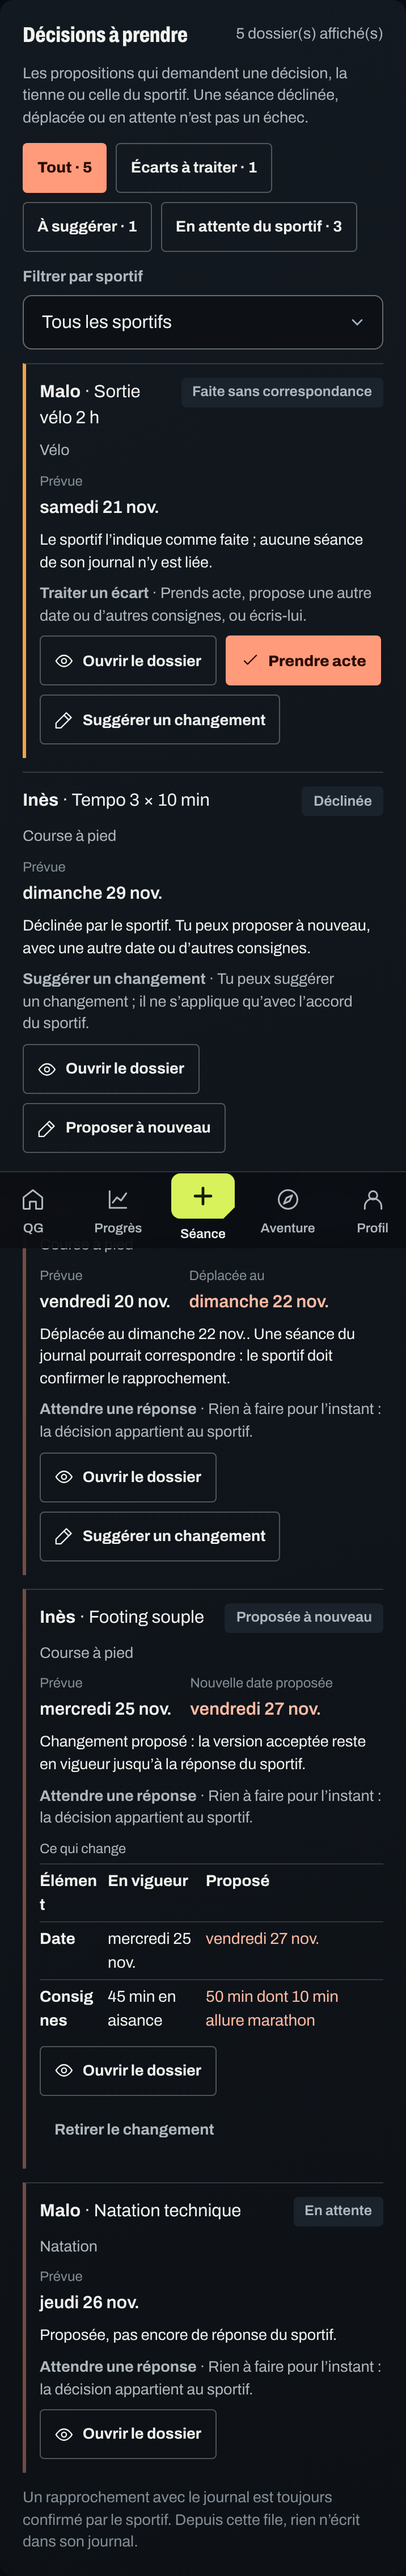
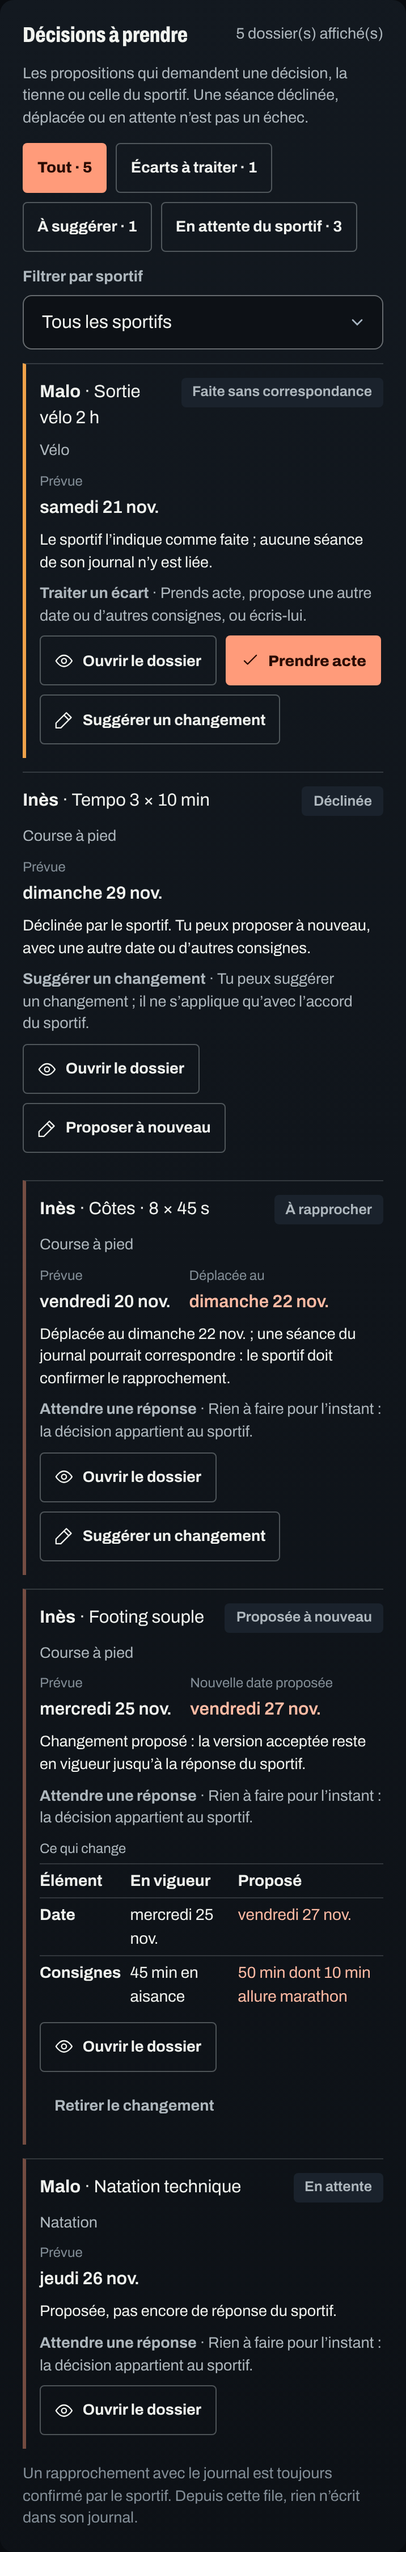
fix(coaching): V1.9.1 audit — no retryable errcode for a business conflict, wording after abbreviated months, docs
- COACH_CONFLICT is raised without errcode 40001 (sql/tests/300_business_conflicts.sql forbids retryable
  business conflicts); bundle v191 regenerated with the re-measured public fingerprint (325/52d4cbd3910b/1367d1178a2d).
- No double full stop after « nov. » in the shared wording; the diff table keeps its headers on one line.
- docs/V191_SEANCE_ASSIGNEE.md (states, rules, measure protocol), screenshots regenerated.

Claude-Session: https://claude.ai/code/session_01NJ928ZdQnnkjhS4RQXu4sH

diff --git a/js/core/coach-followup.js b/js/core/coach-followup.js
@@ -87,12 +87,12 @@
     if (row.state === "linked") {
       if (row.linked && row.linked.in_scope === false) return "Liée à une séance que le partage actuel ne te montre pas (sport ou période hors du partage).";
       const g = between(planned, done);
-      if (g === 0) return `Faite le jour prévu, ${day(done)}.`;
+      if (g === 0) return `Faite le jour prévu (${day(done)}).`;
       if (g === null) return "Liée à une séance du journal.";
       return `Prévue ${day(planned)}, faite ${day(done)} : ${plural(Math.abs(g), "jour", "jours")} ${g > 0 ? "plus tard" : "plus tôt"}.`;
     }
-    if (row.state === "moved") return `Prévue ${day(planned)}, déplacée par le sportif au ${day(moved)}. Pas encore de séance liée.`;
-    if (row.state === "to_match") return `${moved ? `Déplacée au ${day(moved)}. ` : ""}Une séance du journal pourrait correspondre : le sportif doit confirmer le rapprochement.`;
+    if (row.state === "moved") return `Prévue ${day(planned)}, déplacée par le sportif au ${day(moved)} ; pas encore de séance liée.`;
+    if (row.state === "to_match") return `${moved ? `Déplacée au ${day(moved)} ; une` : "Une"} séance du journal pourrait correspondre : le sportif doit confirmer le rapprochement.`;
     if (row.state === "overdue") return `${moved ? `Déplacée au ${day(moved)}` : `Prévue ${day(planned)}`} : la date est passée, aucune séance liée ni déclarée.`;
     if (row.state === "done_unmatched") return row.status === "completed" ? "La séance liée a été retirée du journal : la proposition reste indiquée comme faite, sans séance." : "Le sportif l’indique comme faite ; aucune séance de son journal n’y est liée.";
     return "";
@@ -132,11 +132,11 @@
     switch (row?.state) {
       case "awaiting": text = "Ton coach te propose cette séance. Accepte-la ou décline-la : rien n’est ajouté à ton journal."; break;
       case "reproposed": text = "Ton coach propose un changement. Ta version acceptée reste valable tant que tu n’as pas répondu."; break;
-      case "moved": text = `Tu l’as déplacée au ${day(row.moved_date)}. Ton coach voit les deux dates.`; break;
+      case "moved": text = `Tu l’as déplacée au ${day(row.moved_date)} : ton coach voit les deux dates.`; break;
       case "to_match": text = cands.length === 1 ? "Une séance de ton journal semble correspondre. Confirme si c’est bien elle : rien n’est lié sans toi." : "Plusieurs séances de ton journal pourraient correspondre. Choisis la bonne, ou aucune."; break;
       case "done_unmatched": text = row.status === "completed" ? "La séance liée n’est plus dans ton journal. Relie une autre séance si tu veux." : "Tu l’as indiquée comme faite. Relie la séance de ton journal quand elle y sera."; break;
       case "overdue": text = "La date est passée. Déplace-la, indique-la comme faite ou décline-la : ce n’est pas un échec."; break;
-      case "linked": text = `Reliée à ta séance du ${day(row.done_date)}. Tu peux retirer ce lien ; ton journal ne change pas.`; break;
+      case "linked": text = `Reliée à ta séance du ${day(row.done_date)} : tu peux retirer ce lien, ton journal ne change pas.`; break;
       case "declined": text = "Tu l’as déclinée."; break;
       case "cancelled": text = "Ton coach l’a annulée."; break;
       default: text = "Acceptée et prévue.";

diff --git a/docs/V191_SEANCE_ASSIGNEE.md b/docs/V191_SEANCE_ASSIGNEE.md
@@ -1,0 +1,56 @@
+# V1.9.1 — Une séance assignée
+
+Rendre les propositions du coach réellement suivables : savoir lesquelles demandent une décision, de qui et pourquoi, surtout après un
+changement de date ou de contenu. Sportif Android et coach Web. Les données de séance viennent toujours du journal du sportif.
+Drapeau serveur `screens.coach_followup` (fermé par défaut, vérifié par le serveur). Migration `20261201090000`, paquet `supabase/release-v191`.
+
+## Ce qui est réutilisé
+
+Le lien de partage (`public.coach_links`, sa pause de capacité et sa révocation), les statuts de `public.coach_assignments`
+(`proposed`, `accepted`, `declined`, `completed`, `cancelled`), le lien vers le journal (`session_id`, une proposition par séance,
+index unique), le portail `titan_coach_portal` (inchangé), la liste des propositions et les modèles de séance du coach.
+
+## Les états, calculés par le serveur
+
+| État | Quand | Le coach | Le sportif |
+|---|---|---|---|
+| En attente | proposée, pas encore de réponse | attendre une réponse | accepter ou décliner |
+| Proposée à nouveau | le coach a proposé un changement sur une séance acceptée ou déclinée ; la version en vigueur reste | attendre une réponse ; peut retirer le changement | voir ce qui change, accepter ou garder sa version |
+| Reportée | le sportif a déplacé la séance, rien n’est encore lié | traiter un écart (prendre acte ou suggérer un changement) | redéplacer, revenir au jour prévu |
+| À rapprocher | une séance du journal correspond (même sport, éligible, à 3 jours près de la date en vigueur, liée à aucune autre proposition) | attendre : le coach ne voit pas la séance candidate | confirmer le lien, ou non |
+| Faite sans correspondance | le sportif l’indique comme faite, sans séance liée (ou la séance liée a été supprimée du journal) | traiter un écart | relier une séance quand elle arrive, retirer « faite » |
+| Date passée | date en vigueur passée, rien de lié ni déclaré | traiter un écart | déplacer, indiquer « faite », décliner |
+| Liée | une séance du journal est liée (confirmée par le sportif) | lit la date faite et l’écart avec la date prévue, dans le contrat du lien ; prend acte s’il y a un écart | retirer le lien (le journal ne change pas) |
+| Déclinée | le sportif a décliné | suggérer : proposer à nouveau | — |
+
+La file « Décisions à prendre » du coach ne garde que ce qui demande une action (attendre, traiter un écart, proposer à nouveau),
+filtrable par action et par sportif. Un écart traité (« Prendre acte ») sort de la file et y revient si la situation change.
+
+## Règles
+
+- La version acceptée n’est jamais écrasée (`accepted_version`) ; un changement attend à côté (`pending_change`) et ne s’applique qu’avec
+  l’accord du sportif ; l’ancienne version reste dans l’historique. Le dossier montre l’original accepté, la correction et l’activité liée.
+- Un rapprochement n’est qu’une suggestion : il devient un lien seulement quand le sportif le confirme, par le même `session_id` qu’avant.
+- Deux tentatives concurrentes gardent un seul lien : verrou du lien de partage, puis de la proposition, puis de la séance (verrou
+  consultatif), et l’index unique en dernier garde-fou. Une tentative refusée reçoit une réponse (`ALREADY_LINKED`,
+  `SESSION_ALREADY_LINKED`) et s’inscrit à l’historique ; elle ne remplace jamais le lien en place.
+- Pause (capacité de l’offre du coach) : le coach ne lit plus rien ; le sportif lit ses propositions sans agir.
+  Révocation : le coach ne lit plus rien ; le sportif retrouve ses propositions et sa propre séance, en lecture seule, pendant un an.
+- Hors du contrat du lien (sport ou période), le coach sait seulement qu’une séance est liée, sans date ni mesure.
+- Aucune action n’écrit `public.training_logs`. Ni XP, ni crédit, ni notification.
+
+## Mesure
+
+`private.titan_coach_followup_measure()` (équipe seulement, sans identifiant) : propositions, liens, déplacements, « faites » sans séance,
+changements en attente, acceptés et déclinés, tentatives de lien refusées, écarts traités.
+Mesure du cahier des charges (temps médian pour comprendre trois dossiers, avant et après, sur les mêmes scénarios) : à chronométrer avec
+les coachs du pilote. Protocole proposé : trois dossiers identiques (séance déplacée puis liée, changement en attente, faite sans
+correspondance) ; « avant » sur l’écran actuel (drapeau fermé), « après » avec la file et le dossier ; la question posée est la même
+(« qu’est-ce qui s’est passé et que dois-tu faire ? ») ; temps jusqu’à la bonne réponse, médiane par condition. Aucun chiffre n’est
+encore mesuré.
+
+## Preuves
+
+`sql/tests/300_coach_followup.sql`, `tools/db/test-coach-followup-concurrency.sh`, `tests/coach-followup.test.mjs`,
+`tests/e2e/coach-followup.e2e.mjs` (captures `docs/v191/`), `mobile/__tests__/coachProposals.test.tsx`. Les tests Web et Android
+rejouent les réponses réelles du serveur (`tests/fixtures/coach-followup.json`, produites par `tools/db/coach-followup/fixtures.sql`).
